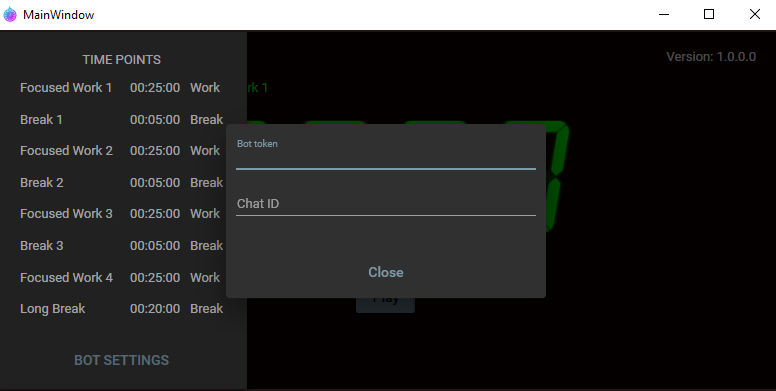
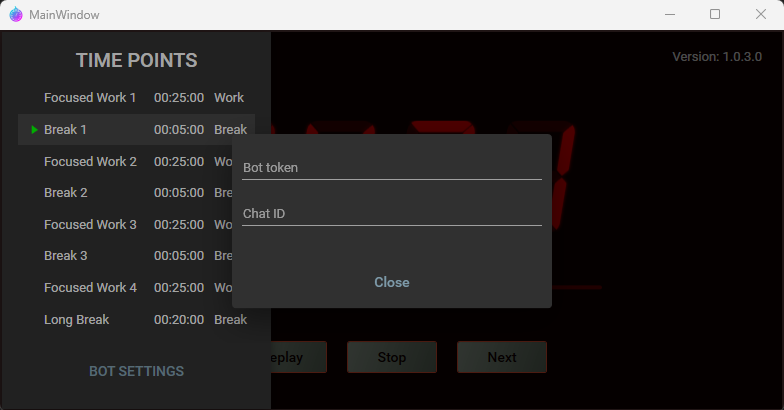
V1.0.3 (#3)
* add selected time point marker
* add time slider

diff --git a/src/PomodoroWindowsTimer.WpfClient/MainWindow.xaml b/src/PomodoroWindowsTimer.WpfClient/MainWindow.xaml
@@ -10,7 +10,7 @@
         xmlns:usercontrols="clr-namespace:PomodoroWindowsTimer.WpfClient.UserControls"
         mc:Ignorable="d"
         Title="MainWindow"
-        Height="400" Width="800"
+        Height="420" Width="800"
         WindowStartupLocation="CenterScreen"
         TextElement.Foreground="{DynamicResource MaterialDesignBody}"
         TextElement.FontWeight="Regular"
@@ -41,37 +41,7 @@
                                        BottomDrawerBackground="{DynamicResource SecondaryHueLightBrush}"
                                        BottomDrawerCornerRadius="20 20 0 0">
             <materialDesign:DrawerHost.LeftDrawerContent>
-                <StackPanel Margin="16">
-                    <TextBlock Margin="4"
-                                   HorizontalAlignment="Center"
-                                   Text="TIME POINTS" />
-                    <ListBox ItemsSource="{Binding TimePoints}" >
-                        <ListBox.ItemTemplate>
-                            <DataTemplate>
-                                <StackPanel Orientation="Horizontal">
-                                    <StackPanel.InputBindings>
-                                        <MouseBinding MouseAction="LeftDoubleClick"
-                                                      Command="{Binding DataContext.StartTimePointCommand, RelativeSource={RelativeSource AncestorType={x:Type ListBox}}}"
-                                                      CommandParameter="{Binding Id}" />
-                                    </StackPanel.InputBindings>
-                                    <TextBlock Text="{Binding Name}" Width="100" />
-                                    <TextBlock Text="{Binding TimeSpan}" Margin="10,0"/>
-                                    <TextBlock Text="{Binding Kind}" />
-                                </StackPanel>
-                            </DataTemplate>
-                        </ListBox.ItemTemplate>
-                    </ListBox>
-                    <Button Grid.Column="1"
-                            Margin="0,20,0,0"
-                            VerticalAlignment="Center"
-                            HorizontalAlignment="Center"
-                            Style="{StaticResource MaterialDesignFlatButton}"
-                            Command="{x:Static materialDesign:DialogHost.OpenDialogCommand}"
-                            CommandParameter="{Binding BotSettingsModel}"
-                            Content="BOT SETTINGS"
-                            />
-
-                </StackPanel>
+                <usercontrols:DrawerUserControl DataContext="{Binding}" />
             </materialDesign:DrawerHost.LeftDrawerContent>
 
             <DockPanel LastChildFill="True" Margin="10,0,10,0">
@@ -114,6 +84,17 @@
                                                            Value="{Binding DataContext.ActiveTime, RelativeSource={RelativeSource Mode=FindAncestor, AncestorType=Control}, FallbackValue=00:00:00.00}"
                                                            Format="mm':'ss"
                                                            />
+                                    <Slider DockPanel.Dock="Top"
+                                            Minimum="0"
+                                            Maximum="{Binding DataContext.ActiveTimeDuration, RelativeSource={RelativeSource Mode=FindAncestor, AncestorType=Control}}"
+                                            Value="{Binding DataContext.ActiveTimeSeconds, RelativeSource={RelativeSource Mode=FindAncestor, AncestorType=Control}}"
+                                            Orientation="Horizontal"
+                                            Margin="0,40,0,0"
+                                            Foreground="#00FF00"
+                                            PreviewMouseDown="Slider_MouseDown"
+                                            PreviewMouseUp="Slider_MouseUp"
+                                            IsEnabled="{Binding DataContext.IsActiveTimePointSet, RelativeSource={RelativeSource Mode=FindAncestor, AncestorType=Control}}"
+                                            />
                                 </StackPanel>
                             </DataTemplate>
 
@@ -131,14 +112,33 @@
                                                        Value="{Binding DataContext.ActiveTime, RelativeSource={RelativeSource Mode=FindAncestor, AncestorType=Control}, FallbackValue=00:00:00.00}"
                                                        Format="mm':'ss"
                                                        />
+                                    <Slider DockPanel.Dock="Top"
+                                            Minimum="0"
+                                            Maximum="{Binding DataContext.ActiveTimeDuration, RelativeSource={RelativeSource Mode=FindAncestor, AncestorType=Control}}"
+                                            Value="{Binding DataContext.ActiveTimeSeconds, RelativeSource={RelativeSource Mode=FindAncestor, AncestorType=Control}}"
+                                            Orientation="Horizontal"
+                                            Margin="0,40,0,0"
+                                            Foreground="#FF0000"
+                                            PreviewMouseDown="Slider_MouseDown"
+                                            PreviewMouseUp="Slider_MouseUp"
+                                            IsEnabled="{Binding DataContext.IsActiveTimePointSet, RelativeSource={RelativeSource Mode=FindAncestor, AncestorType=Control}}"
+                                            />
                                 </StackPanel>
                             </DataTemplate>
 
                             <local:DigitPanelTemplateSelector x:Key="dts_DigitPanel" />
                         </DockPanel.Resources>
                     
-                        <ContentControl DockPanel.Dock="Top" ContentTemplateSelector="{StaticResource dts_DigitPanel}" Content="{Binding IsBreak}" DataContext="{Binding}" />
-                        
+                        <!-- Digit Panel -->
+                        <ContentControl x:Name="m_DigitPanel"
+                                        DockPanel.Dock="Top"
+                                        ContentTemplateSelector="{StaticResource dts_DigitPanel}"
+                                        Content="{Binding IsBreak}"
+                                        DataContext="{Binding}"
+                                        HorizontalAlignment="Center"
+                                        />
+
+                        <!-- Buttons -->
                         <StackPanel Orientation="Horizontal" HorizontalAlignment="Center" VerticalAlignment="Top" Height="120">
                             <StackPanel.Resources>
                                 <Style TargetType="Button" BasedOn="{StaticResource MaterialDesignFlatSecondaryDarkBgButton}">

diff --git a/src/PomodoroWindowsTimer.WpfClient/UserControls/DrawerUserControl.xaml b/src/PomodoroWindowsTimer.WpfClient/UserControls/DrawerUserControl.xaml
@@ -1,0 +1,80 @@
+<UserControl x:Class="PomodoroWindowsTimer.WpfClient.UserControls.DrawerUserControl"
+             xmlns="http://schemas.microsoft.com/winfx/2006/xaml/presentation"
+             xmlns:x="http://schemas.microsoft.com/winfx/2006/xaml"
+             xmlns:mc="http://schemas.openxmlformats.org/markup-compatibility/2006" 
+             xmlns:d="http://schemas.microsoft.com/expression/blend/2008" 
+             xmlns:local="clr-namespace:PomodoroWindowsTimer.WpfClient.UserControls"
+             xmlns:materialDesign="http://materialdesigninxaml.net/winfx/xaml/themes"
+             xmlns:digitPanel="clr-namespace:p1eXu5.Wpf.DigitPanel;assembly=p1eXu5.Wpf.DigitPanel"
+             mc:Ignorable="d" 
+             TextElement.Foreground="{DynamicResource MaterialDesignBody}"
+             d:DesignHeight="450" d:DesignWidth="800"
+             >
+    <UserControl.Resources>
+        <ControlTemplate x:Key="ct_UnselectedTimePoint">
+            <StackPanel Orientation="Horizontal">
+                <StackPanel.InputBindings>
+                    <MouseBinding MouseAction="LeftDoubleClick"
+                                          Command="{Binding DataContext.StartTimePointCommand, RelativeSource={RelativeSource AncestorType={x:Type ListBox}}}"
+                                          CommandParameter="{Binding Id}" />
+                </StackPanel.InputBindings>
+                <TextBlock Text="{Binding Name}" Width="100" Margin="18,0,0,0" />
+                <TextBlock Text="{Binding TimeSpan}" Margin="10,0"/>
+                <TextBlock Text="{Binding Kind}" />
+            </StackPanel>
+        </ControlTemplate>
+
+        <ControlTemplate x:Key="ct_SelectedTimePoint">
+            <StackPanel Orientation="Horizontal">
+                <StackPanel.InputBindings>
+                    <MouseBinding MouseAction="LeftDoubleClick"
+                                          Command="{Binding DataContext.StartTimePointCommand, RelativeSource={RelativeSource AncestorType={x:Type ListBox}}}"
+                                          CommandParameter="{Binding Id}" />
+                </StackPanel.InputBindings>
+
+                <Border VerticalAlignment="Center" Margin="0,0,2,0">
+                    <materialDesign:PackIcon Kind="Play"
+                                             Foreground="#00FF00" Height="14" />
+                </Border>
+                
+                <TextBlock Text="{Binding Name}" Width="100" />
+                <TextBlock Text="{Binding TimeSpan}" Margin="10,0"/>
+                <TextBlock Text="{Binding Kind}" />
+            </StackPanel>
+        </ControlTemplate>
+
+        <DataTemplate x:Key="dt_TimepPointTemplate">
+            <Control x:Name="theControl" Focusable="False" Template="{StaticResource ct_UnselectedTimePoint}" />
+            <DataTemplate.Triggers>
+                <DataTrigger Binding="{Binding RelativeSource={RelativeSource Mode=FindAncestor, AncestorType={x:Type ListBoxItem}}, Path=DataContext.IsSelected}" Value="True">
+                    <Setter TargetName="theControl" Property="Template" Value="{StaticResource ct_SelectedTimePoint}" />
+                </DataTrigger>
+            </DataTemplate.Triggers>
+        </DataTemplate>
+
+    </UserControl.Resources>
+    
+    <StackPanel Margin="16">
+        <TextBlock Margin="0,0,0,10"
+                   Style="{StaticResource MaterialDesignHeadline6TextBlock}"
+                   HorizontalAlignment="Center"
+                   Text="TIME POINTS"
+                   />
+
+        <ListBox ItemsSource="{Binding TimePoints}"
+                 ItemTemplate="{StaticResource dt_TimepPointTemplate}"
+                 SelectionMode="Single"
+                 />
+
+        <Button Grid.Column="1"
+                Margin="0,20,0,0"
+                VerticalAlignment="Center"
+                HorizontalAlignment="Center"
+                Style="{StaticResource MaterialDesignFlatButton}"
+                Command="{x:Static materialDesign:DialogHost.OpenDialogCommand}"
+                CommandParameter="{Binding BotSettingsModel}"
+                Content="BOT SETTINGS"
+                />
+
+    </StackPanel>
+</UserControl>

diff --git a/src/PomodoroWindowsTimer.WpfClient/MainWindow.xaml.cs b/src/PomodoroWindowsTimer.WpfClient/MainWindow.xaml.cs
@@ -24,5 +24,26 @@ namespace PomodoroWindowsTimer.WpfClient
         {
             InitializeComponent();
         }
+
+        private void Slider_MouseDown(object sender, MouseButtonEventArgs e)
+        {
+            if (e.LeftButton == MouseButtonState.Pressed)
+            {
+                ICommand openFileCommand = ((dynamic)DataContext).PreChangeActiveTimeSpanCommand;
+                if (openFileCommand.CanExecute(null))
+                {
+                    openFileCommand.Execute(null);
+                }
+            }
+        }
+
+        private void Slider_MouseUp(object sender, MouseButtonEventArgs e)
+        {
+            ICommand openFileCommand = ((dynamic)DataContext).PostChangeActiveTimeSpanCommand;
+            if (openFileCommand.CanExecute(null))
+            {
+                openFileCommand.Execute(null);
+            }
+        }
     }
 }

diff --git a/src/PomodoroWindowsTimer.WpfClient/UserControls/DrawerUserControl.xaml.cs b/src/PomodoroWindowsTimer.WpfClient/UserControls/DrawerUserControl.xaml.cs
@@ -1,0 +1,26 @@
+using System;
+using System.Collections.Generic;
+using System.Linq;
+using System.Text;
+using System.Threading.Tasks;
+using System.Windows;
+using System.Windows.Controls;
+using System.Windows.Data;
+using System.Windows.Documents;
+using System.Windows.Input;
+using System.Windows.Media;
+using System.Windows.Media.Imaging;
+using System.Windows.Navigation;
+using System.Windows.Shapes;
+
+namespace PomodoroWindowsTimer.WpfClient.UserControls;
+/// <summary>
+/// Interaction logic for DrawerUserControl.xaml
+/// </summary>
+public partial class DrawerUserControl : UserControl
+{
+    public DrawerUserControl()
+    {
+        InitializeComponent();
+    }
+}
